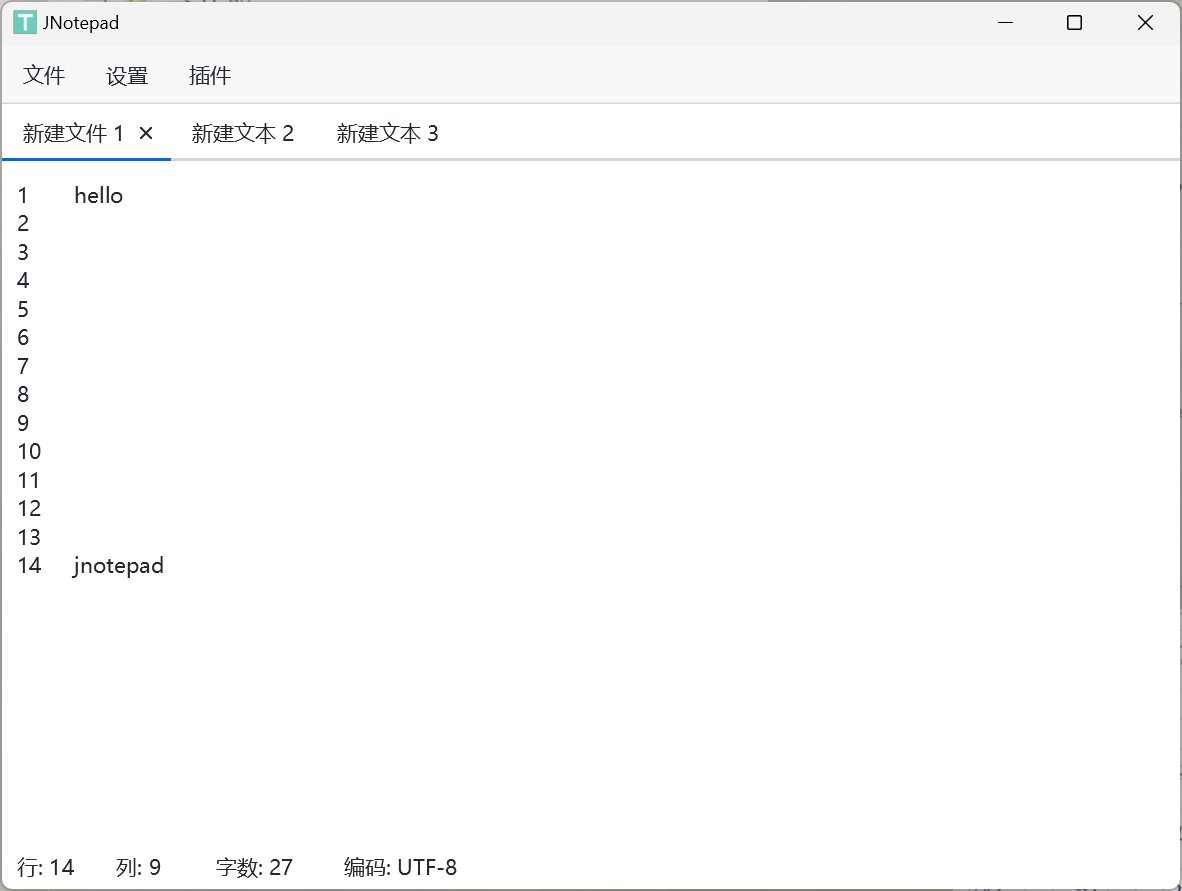
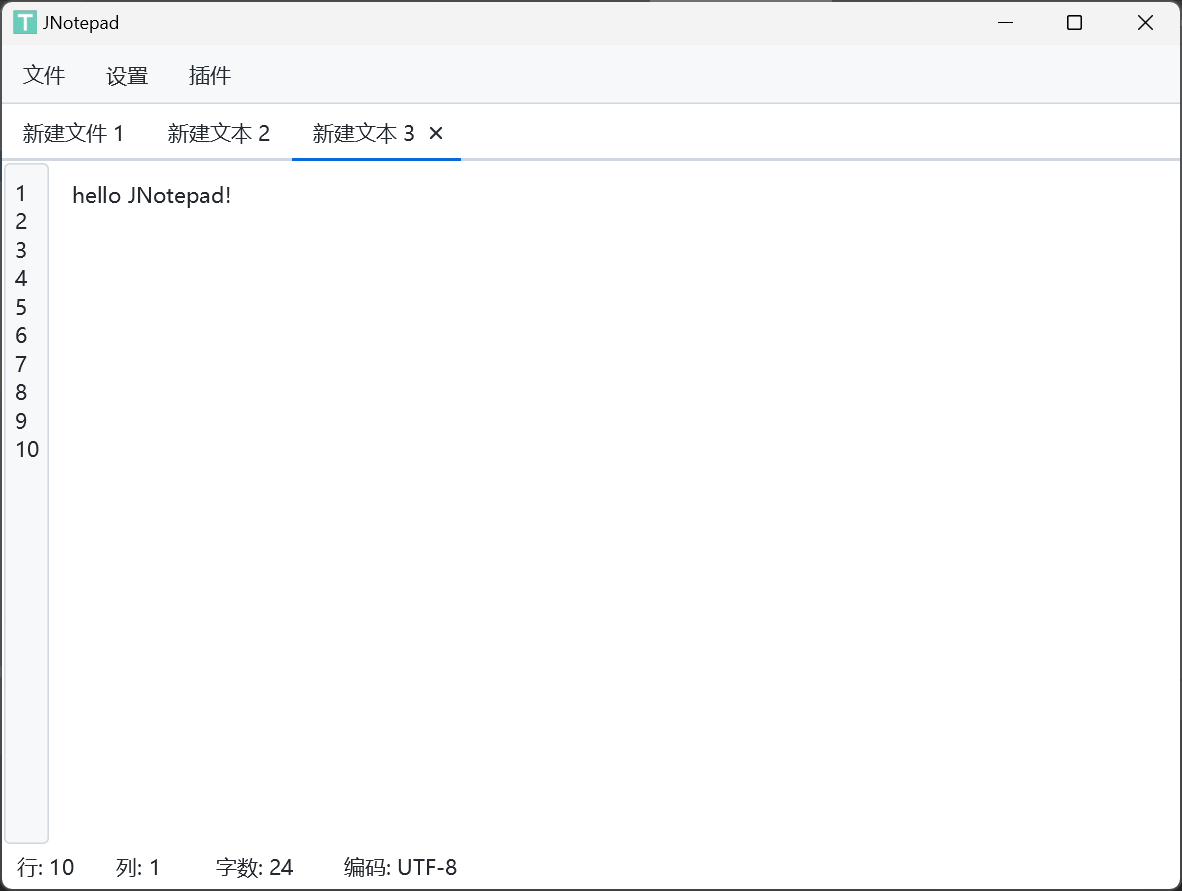
修改行标像素

diff --git a/src/main/java/org/jcnc/jnotepad/ui/LineNumberTextArea.java b/src/main/java/org/jcnc/jnotepad/ui/LineNumberTextArea.java
@@ -50,7 +50,7 @@ public class LineNumberTextArea extends BorderPane {
             }
         }
         //单数字宽度10像素，4为padding=左3+右1
-        int actualWidth = Math.max(count * 10 + 4, MIN_LINE_NUMBER_WIDTH);
+        int actualWidth = Math.max(count * 10 + 8, MIN_LINE_NUMBER_WIDTH);
         if (actualWidth != lineNumberArea.getWidth()) {
             lineNumberArea.setPrefWidth(actualWidth);
         }

diff --git a/src/main/java/org/jcnc/jnotepad/view/manager/ViewManager.java b/src/main/java/org/jcnc/jnotepad/view/manager/ViewManager.java
@@ -64,9 +64,8 @@ public class ViewManager {
     private ViewManager(Scene scene) {
         root = new BorderPane();
 
+
         scene.setRoot(root);
-
-
 
     }
 
